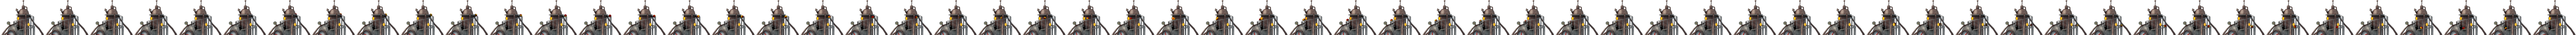
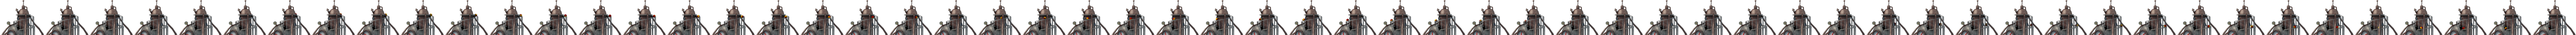
FlintFactory Nightversion

diff --git a/Clinfinity.c4d/Structures.c4d/FlintFactory.c4d/Script.c b/Clinfinity.c4d/Structures.c4d/FlintFactory.c4d/Script.c
@@ -3,7 +3,8 @@
 #strict 2
 
 #include L_CP
-#include B100
+#include B100  //Basement
+#include NLBO  //Nightlight
 
 static const RFLN_MaxFlints = 4;
 
